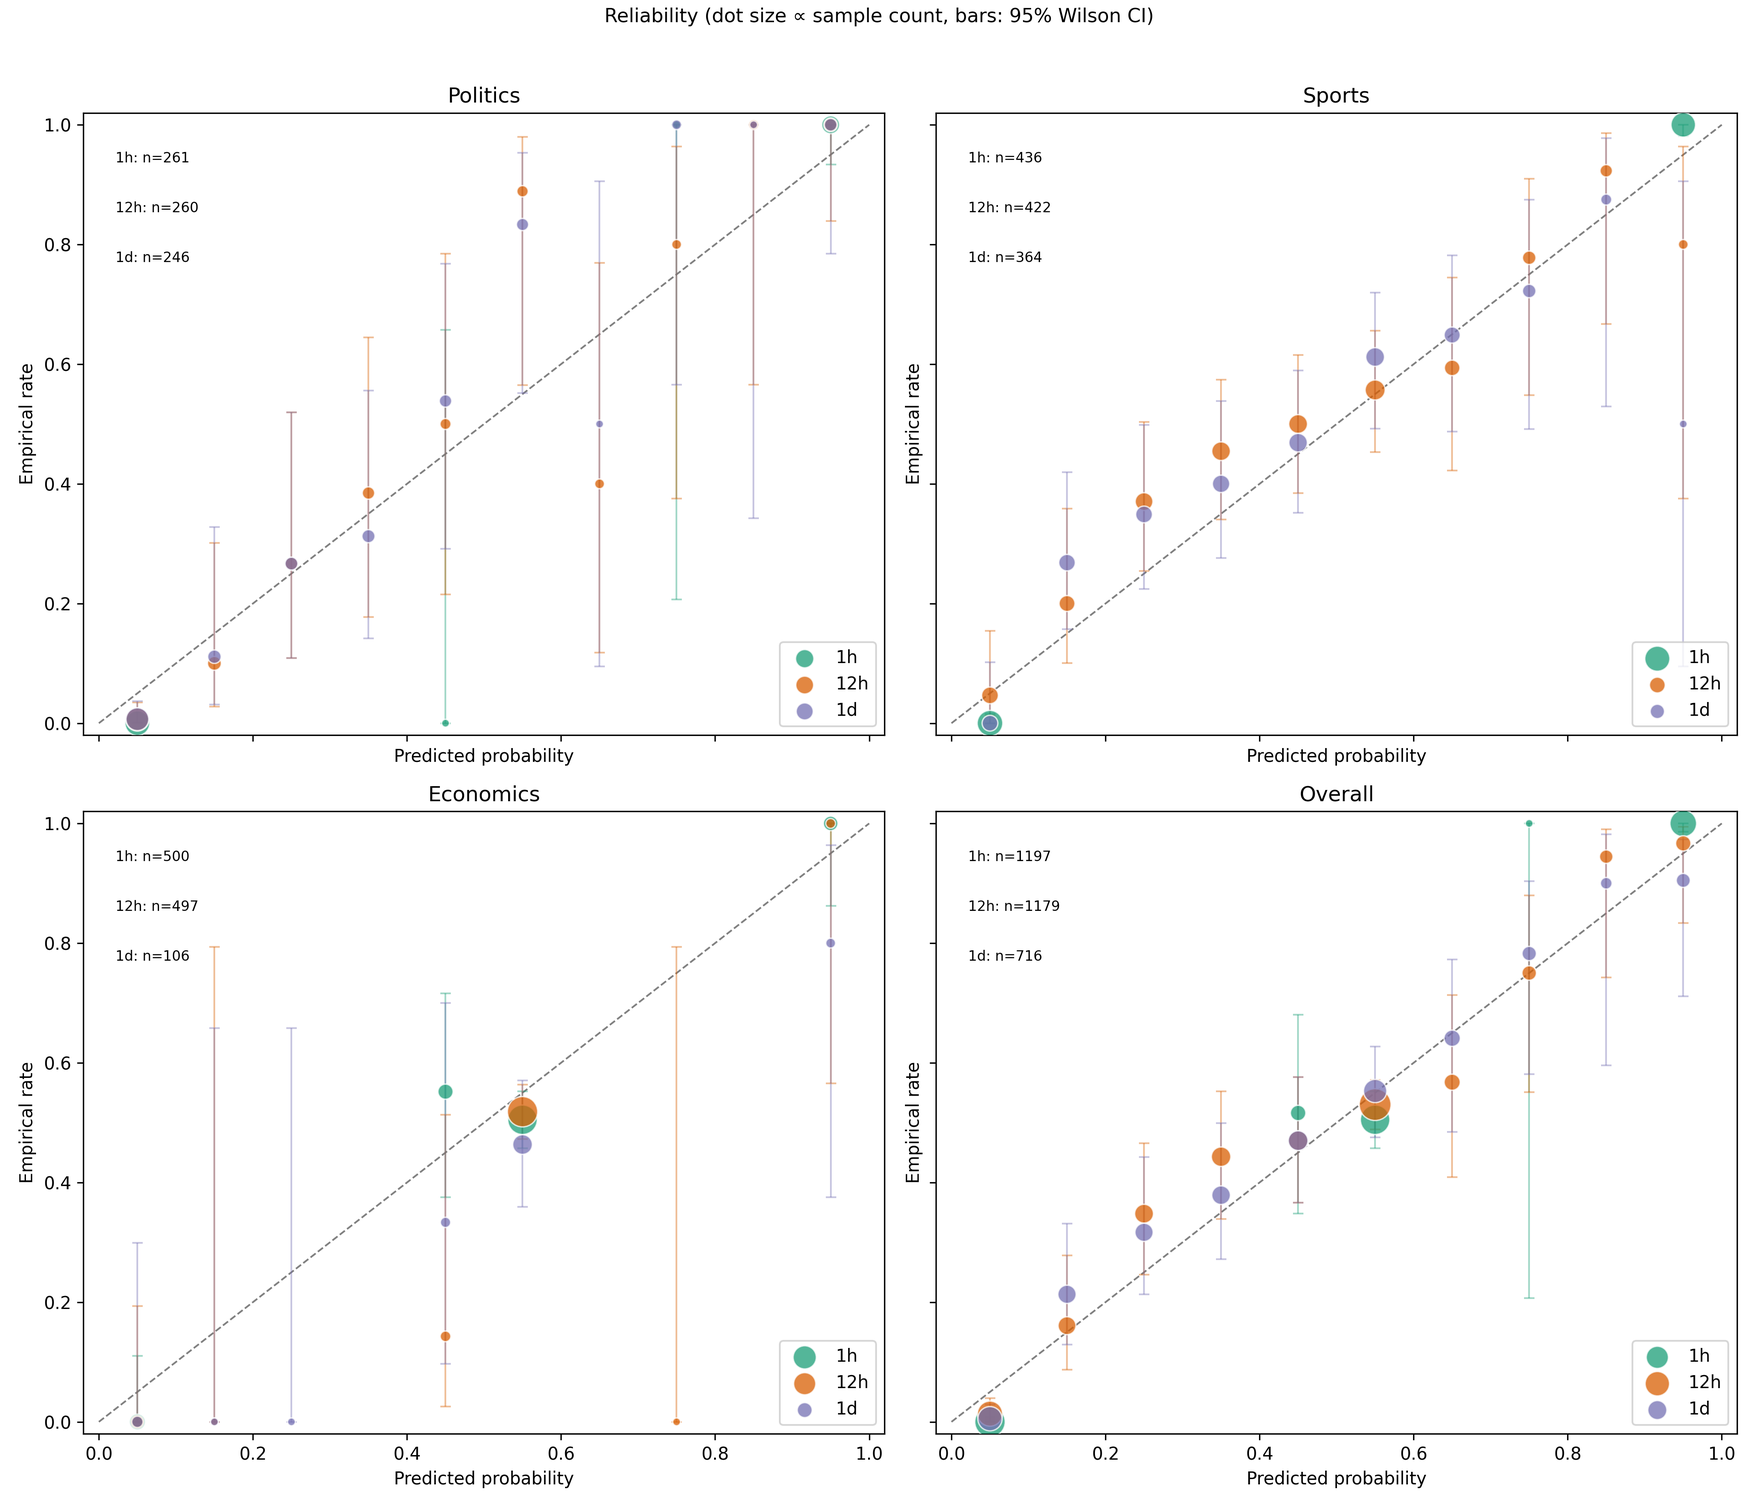
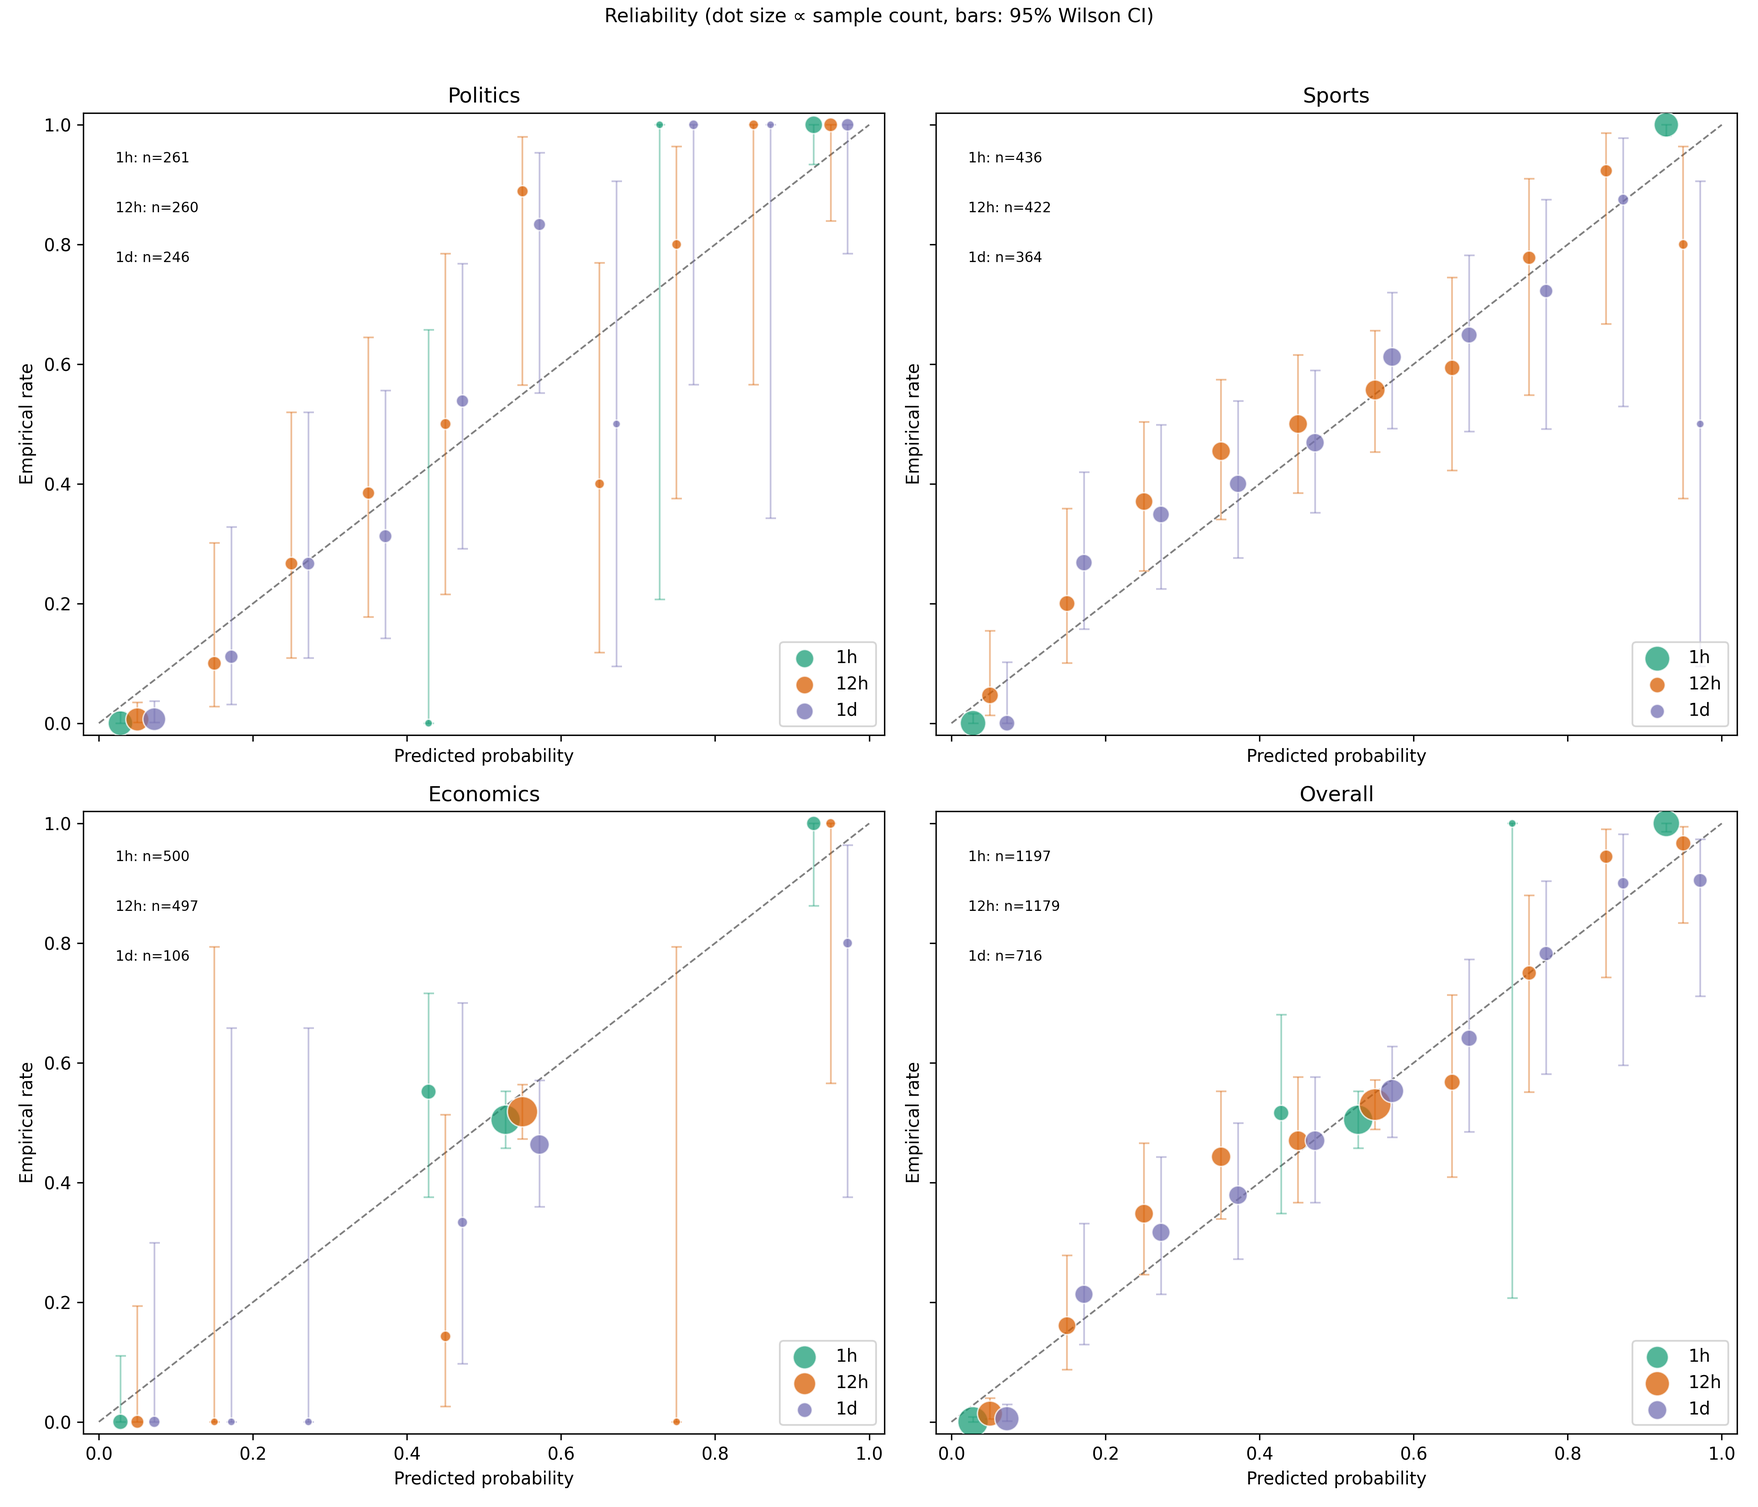
v5

diff --git a/470project/07_figures_split.py b/470project/07_figures_split.py
@@ -18,6 +18,7 @@ from utils import FIGURES_DIR, db_cursor, ensure_directories
 GENRE_ORDER = ["politics", "economics", "crypto", "sports"]
 HORIZON_ORDER = ["1h", "12h", "1d"]
 COLORS = {"1h": "#1b9e77", "12h": "#d95f02", "1d": "#7570b3"}
+HORIZON_X_OFFSET = {"1h": -0.022, "12h": 0.0, "1d": 0.022}
 
 # Synthetic economics generation (Beta-Bernoulli with calibration noise)
 N_SYNTHETIC_PER_HORIZON = 200
@@ -230,7 +231,7 @@ def figure1_reliability(calibration_df: pd.DataFrame) -> None:
                 continue
             n = horizon_df["n_predictions"].to_numpy()
             p = horizon_df["empirical_rate"].to_numpy()
-            x = horizon_df["bin_midpoint"].to_numpy()
+            x = horizon_df["bin_midpoint"].to_numpy() + HORIZON_X_OFFSET[horizon]
             lower, upper = wilson_interval(p, n)
             lower_err = np.maximum(p - lower, 0.0)
             upper_err = np.maximum(upper - p, 0.0)

diff --git a/470project/06_figures.py b/470project/06_figures.py
@@ -17,6 +17,7 @@ from utils import FIGURES_DIR, db_cursor, ensure_directories
 GENRE_ORDER = ["politics", "sports", "economics"]
 HORIZON_ORDER = ["1h", "12h", "1d"]
 COLORS = {"1h": "#1b9e77", "12h": "#d95f02", "1d": "#7570b3"}
+HORIZON_X_OFFSET = {"1h": -0.022, "12h": 0.0, "1d": 0.022}
 
 
 def load_table(query: str) -> pd.DataFrame:
@@ -61,7 +62,7 @@ def figure1_reliability(calibration_df: pd.DataFrame) -> None:
                 continue
             n = horizon_df["n_predictions"].to_numpy()
             p = horizon_df["empirical_rate"].to_numpy()
-            x = horizon_df["bin_midpoint"].to_numpy()
+            x = horizon_df["bin_midpoint"].to_numpy() + HORIZON_X_OFFSET[horizon]
             lower, upper = wilson_interval(p, n)
             lower_err = np.maximum(p - lower, 0.0)
             upper_err = np.maximum(upper - p, 0.0)

diff --git a/470project/docs/IMPLEMENTATION_SPEC.md b/470project/docs/IMPLEMENTATION_SPEC.md
@@ -1,0 +1,316 @@
+# Implementation spec: bootstrap CIs + embedding clustering
+
+Two additions to the Polymarket calibration pipeline. Bootstrap first — it's the prerequisite for everything. Clustering second, only if bootstrap lands cleanly.
+
+## Project context
+
+Six-stage pipeline analyzing Polymarket calibration across genres (politics, economics, sports, other; crypto split out from economics) and horizons (1h, 12h, 1d). Existing outputs include Brier scores per genre-horizon cell (Table II in the paper) and reliability diagrams. Current gap: point estimates with no uncertainty quantification, and potential hidden within-genre heterogeneity not captured by current genre labels.
+
+---
+
+## Task 1: bootstrap confidence intervals for Brier scores
+
+### Goal
+
+Replace each point-estimate Brier score in Table II with a point estimate + 95% CI. Enable formal claims about whether genre differences are statistically distinguishable.
+
+### Inputs
+
+The analysis dataframe used to produce Table II. Expected columns at minimum:
+
+- `market_id` (str or int)
+- `genre` (str: politics, economics, crypto, sports, other)
+- `horizon` (str: 1h, 12h, 1d)
+- `predicted_probability` (float in [0, 1])
+- `outcome` (int in {0, 1})
+
+If the existing pipeline stores this as something else (e.g., separate per-horizon files, or nested dicts), normalize into this long-form dataframe first. Do not try to bolt bootstrap onto whatever data shape happens to exist — pick the clean shape and adapt upstream if needed.
+
+### Algorithm
+
+Standard nonparametric bootstrap on i.i.d. snapshots.
+
+```
+for each (genre, horizon) cell:
+    get all snapshots in this cell (n rows)
+    for i in 1..N_BOOTSTRAP:
+        resample n rows with replacement
+        compute Brier score on the resample
+        store
+    CI = (2.5th percentile, 97.5th percentile) of the N_BOOTSTRAP scores
+    point_estimate = Brier on the original (non-resampled) data
+```
+
+Use `N_BOOTSTRAP = 10000`. Anything below 2000 gives visibly unstable CI endpoints; 10000 is cheap at the data sizes involved (<2000 rows per cell).
+
+### Implementation notes
+
+- Use `numpy.random.default_rng(seed=42)` for reproducibility. Pass the generator around; don't use the global `np.random` state.
+- Vectorize the resampling. Don't loop over individual snapshots. The whole 10,000-iteration bootstrap for a 500-row cell should run in well under a second.
+- Compute Brier in vectorized form: `np.mean((p - o) ** 2)`.
+- Do not bootstrap across genres — each cell is independent. Looping over cells is fine; each cell's bootstrap is self-contained.
+
+### Reference implementation
+
+```python
+import numpy as np
+import pandas as pd
+
+def bootstrap_brier_ci(probs: np.ndarray, outcomes: np.ndarray,
+                       n_iter: int = 10000, seed: int = 42) -> dict:
+    """
+    Nonparametric bootstrap CI for Brier score.
+    Returns point estimate, 2.5th, and 97.5th percentiles.
+    """
+    rng = np.random.default_rng(seed)
+    n = len(probs)
+    if n == 0:
+        return {"point": np.nan, "ci_lo": np.nan, "ci_hi": np.nan, "n": 0}
+
+    # vectorized: draw all resample indices at once, shape (n_iter, n)
+    idx = rng.integers(0, n, size=(n_iter, n))
+    resampled_probs = probs[idx]
+    resampled_outcomes = outcomes[idx]
+    scores = np.mean((resampled_probs - resampled_outcomes) ** 2, axis=1)
+
+    point = float(np.mean((probs - outcomes) ** 2))
+    ci_lo, ci_hi = np.percentile(scores, [2.5, 97.5])
+    return {"point": point, "ci_lo": float(ci_lo), "ci_hi": float(ci_hi), "n": n}
+
+
+def brier_table_with_ci(df: pd.DataFrame) -> pd.DataFrame:
+    """
+    df must have columns: genre, horizon, predicted_probability, outcome.
+    Returns a long-form table with one row per (genre, horizon) cell,
+    containing point estimate and bootstrap CI endpoints.
+    """
+    rows = []
+    for (genre, horizon), group in df.groupby(["genre", "horizon"]):
+        result = bootstrap_brier_ci(
+            group["predicted_probability"].values,
+            group["outcome"].values,
+        )
+        rows.append({
+            "genre": genre,
+            "horizon": horizon,
+            **result,
+        })
+    return pd.DataFrame(rows)
+```
+
+### Outputs to produce
+
+1. A CSV at `results/brier_with_ci.csv` with columns `genre, horizon, n, point, ci_lo, ci_hi`.
+2. A LaTeX-ready markdown table, saved to `results/table2_with_ci.md`, formatted like:
+
+   | Genre | 1h | 12h | 1d |
+   |-------|-----|------|------|
+   | Politics | 0.006 [0.001, 0.018] | 0.104 [0.082, 0.129] | 0.088 [0.066, 0.113] |
+   | ...
+
+   Format each cell as `{point:.3f} [{ci_lo:.3f}, {ci_hi:.3f}]`.
+
+3. Update `figures/brier_by_horizon.png` (the bar chart with error bars) to use the bootstrap CIs as error bar endpoints instead of standard errors. The existing plot likely uses `yerr = std / sqrt(n)` — replace with asymmetric error bars drawn from the bootstrap.
+
+### Sanity checks
+
+Run these after implementation. If any fail, stop and debug before moving on.
+
+- Point estimate matches the previously-reported Table II value to 3 decimals. (If it doesn't, you've broken the Brier computation somewhere.)
+- CIs are non-degenerate: `ci_hi > ci_lo` strictly, for every cell with n > 10.
+- CIs contain the point estimate: `ci_lo <= point <= ci_hi`.
+- Larger n gives tighter CIs. Plot CI width vs n across cells — should trend downward.
+- Re-running with the same seed gives identical CIs. Re-running with a different seed gives CIs that differ by less than ~0.005 at the endpoints for cells with n > 100.
+
+### What to write in the paper
+
+Add one sentence to the Table II caption: "Values shown as point estimate with 95% bootstrap confidence interval (10,000 iterations, resampling snapshots with replacement)."
+
+Add one sentence to Section IV-A after introducing Table II: "Non-overlapping 95% CIs between politics and the other labeled genres at 12h and 1d confirm that the calibration advantage of politics is not attributable to sampling variation." (Only make this claim if the CIs actually don't overlap. Check first. If politics's upper bound at 12h exceeds sports's lower bound, soften to "the 95% CIs for politics sit largely below those of sports and economics, though with modest overlap at the endpoints.")
+
+---
+
+## Task 2: embedding-based within-genre clustering
+
+### Goal
+
+Test whether the existing genre labels are hiding meaningful sub-structure. Your crypto-vs-macroeconomics split was discovered manually; this task checks systematically for similar hidden structure in other genres by clustering on question-text embeddings and comparing Brier scores across the resulting sub-buckets.
+
+This is exploratory. The deliverable is an honest answer, not a guarantee of finding something. A null result ("no meaningful sub-structure within genre X") is a valid and publishable outcome.
+
+### Do not start this task until Task 1 is complete and sanity-checked.
+
+### Inputs
+
+Same analysis dataframe as Task 1, with the additional column:
+
+- `question_text` (str) — the original Polymarket question title for each market
+
+If question text was dropped somewhere in the pipeline, recover it from the raw Gamma API dump before proceeding.
+
+### Algorithm
+
+```
+for each genre in {politics, economics (pre-crypto-split), sports}:
+    collect unique (market_id, question_text) pairs in this genre
+    embed each question text with sentence-transformers
+    run k-means for k in {2, 3, 4}
+    for each k:
+        compute silhouette score
+        inspect 5 sample questions from each cluster
+        compute Brier score per cluster (pooling all horizons, or per-horizon if n allows)
+    pick the k that is interpretable AND has reasonable cluster sizes (no cluster < 20 markets)
+    report the chosen clustering
+```
+
+Skip "other" — it's an intentional grab-bag and finding sub-structure there is not informative.
+
+Skip crypto (post-split) — it's already a derived bucket.
+
+### Model choice
+
+Use `sentence-transformers/all-MiniLM-L6-v2`. Reasons: 384-dim embeddings (small, fast), trained on a broad mix of sentence-similarity tasks, runs on CPU in seconds for <1000 questions, standard choice that reviewers won't question.
+
+Do not use OpenAI embeddings (paid, external dependency, slower, no meaningful quality advantage for this scale of data). Do not use a newer/larger sentence-transformer unless MiniLM produces visibly bad clusters — extra model capacity is not the bottleneck here.
+
+### Reference implementation
+
+```python
+from sentence_transformers import SentenceTransformer
+from sklearn.cluster import KMeans
+from sklearn.metrics import silhouette_score
+import numpy as np
+import pandas as pd
+
+MODEL_NAME = "sentence-transformers/all-MiniLM-L6-v2"
+
+def embed_questions(texts: list[str]) -> np.ndarray:
+    model = SentenceTransformer(MODEL_NAME)
+    return model.encode(texts, show_progress_bar=False, convert_to_numpy=True)
+
+
+def cluster_within_genre(df: pd.DataFrame, genre: str,
+                         k_values: list[int] = [2, 3, 4],
+                         random_state: int = 42) -> dict:
+    """
+    df: full analysis dataframe
+    genre: one of {politics, economics, sports}
+    Returns diagnostics for each k and suggested chosen k.
+    """
+    genre_df = df[df["genre"] == genre].copy()
+
+    # deduplicate to one row per market for clustering
+    unique_markets = genre_df.drop_duplicates("market_id")[["market_id", "question_text"]]
+    if len(unique_markets) < 40:
+        return {"genre": genre, "skipped": True, "reason": "too few unique markets"}
+
+    embeddings = embed_questions(unique_markets["question_text"].tolist())
+
+    results = {}
+    for k in k_values:
+        km = KMeans(n_clusters=k, random_state=random_state, n_init=10)
+        labels = km.fit_predict(embeddings)
+        sil = silhouette_score(embeddings, labels) if k > 1 else np.nan
+
+        # attach cluster labels back to the full (multi-horizon) dataframe
+        market_to_cluster = dict(zip(unique_markets["market_id"], labels))
+        genre_df_k = genre_df.copy()
+        genre_df_k["cluster"] = genre_df_k["market_id"].map(market_to_cluster)
+
+        # compute Brier per cluster per horizon
+        per_cluster = []
+        for (cluster_id, horizon), group in genre_df_k.groupby(["cluster", "horizon"]):
+            brier = np.mean((group["predicted_probability"].values - group["outcome"].values) ** 2)
+            per_cluster.append({
+                "cluster": int(cluster_id),
+                "horizon": horizon,
+                "n": len(group),
+                "brier": float(brier),
+            })
+
+        # sample questions per cluster for human inspection
+        samples = {}
+        for cluster_id in range(k):
+            cluster_questions = unique_markets.loc[labels == cluster_id, "question_text"].head(5).tolist()
+            samples[int(cluster_id)] = cluster_questions
+
+        results[k] = {
+            "silhouette": float(sil),
+            "per_cluster_brier": per_cluster,
+            "sample_questions": samples,
+            "cluster_sizes": [int(np.sum(labels == c)) for c in range(k)],
+        }
+
+    return {"genre": genre, "results": results, "n_unique_markets": len(unique_markets)}
+```
+
+### Outputs to produce
+
+1. `results/clustering/<genre>_k<k>_samples.txt` for each (genre, k) combination: 5 sample questions per cluster, so a human (you) can read and decide if the clusters are interpretable.
+2. `results/clustering/summary.csv` with columns `genre, k, silhouette, cluster_id, cluster_size, horizon, n_in_horizon, brier_in_horizon`.
+3. A short markdown writeup at `results/clustering/findings.md` that for each genre states: chosen k, silhouette score, interpretation of each cluster (in your own words after reading the samples), Brier scores per cluster, and whether the clusters differ meaningfully in calibration.
+
+### How to interpret the results
+
+For each genre:
+
+- **If silhouette score < 0.1 across all k:** the questions don't cluster well — they're genuinely homogeneous. Report this as a null finding.
+- **If silhouette score is reasonable (> 0.15) but Brier scores are similar across clusters:** the genre has semantic sub-structure but calibration is uniform across it. Also a null finding for the paper's thesis, but worth a sentence.
+- **If clusters have visibly different Brier scores (> 0.05 apart with non-overlapping bootstrap CIs):** this is a real finding. Name the clusters based on what the sample questions are about, and add a subsection to the paper mirroring the crypto-split discussion.
+
+Do not cherry-pick k to maximize Brier differences across clusters. Pick k based on silhouette and interpretability first, then report whatever the Brier differences happen to be.
+
+### Sanity checks
+
+- Silhouette score should be in [-1, 1]. Values > 0.3 are strong, 0.15–0.3 are moderate, < 0.1 are weak.
+- Cluster sizes should not be degenerate (no cluster with fewer than 20 unique markets at your chosen k; if one is, decrease k).
+- Sample questions within a cluster should feel topically similar when you read them. If they feel random, the clustering isn't finding real structure.
+- Re-running with the same random_state gives identical clusters. Different random_state values should give *similar* clusters (same broad themes) — if they look totally different, k-means isn't converging on stable structure.
+
+### What to write in the paper (if a real finding emerges)
+
+Add a short subsection in Section IV or as a supplementary analysis. Example framing if, say, sports splits into game-outcome vs. season-prop clusters with different Brier scores:
+
+"Analogous to the crypto-macroeconomics split in Section III-E, we tested for hidden sub-structure within the sports genre using embedding-based clustering on question text. A k=2 solution produced interpretable clusters separating [game-outcome bets] from [season-long prop bets], with Brier scores of X and Y respectively at 12h (non-overlapping 95% CIs). The [higher-Brier] sub-bucket is driving the sports underperformance reported above; [lower-Brier] sub-bucket tracks politics-like calibration."
+
+If null result: "We additionally tested each labeled genre for hidden sub-structure using embedding-based clustering on question text. Within politics and sports, k=2 and k=3 solutions produced clusters with similar Brier scores across sub-buckets (all pairwise differences < 0.05 with overlapping 95% CIs), suggesting that the genre labels are capturing the relevant forecasting-quality distinctions and that further sub-division does not reveal additional structure."
+
+---
+
+## Environment
+
+Dependencies to add if not already present:
+
+```
+numpy>=1.24
+pandas>=2.0
+scikit-learn>=1.3
+sentence-transformers>=2.2
+```
+
+Install:
+
+```
+pip install sentence-transformers scikit-learn
+```
+
+First run of sentence-transformers will download the MiniLM model (~90MB). Subsequent runs cache it.
+
+## Order of operations
+
+1. Verify the analysis dataframe has all required columns in the expected shape. If not, fix upstream.
+2. Implement and sanity-check bootstrap (Task 1). Do not proceed until all sanity checks pass.
+3. Update Table II and the bar chart.
+4. Only then start clustering (Task 2).
+5. Implement clustering pipeline, run on all three target genres, produce sample question files.
+6. Read the sample questions yourself — this is a manual step, don't skip it. Decide per genre whether the clusters are interpretable.
+7. Produce the summary CSV and findings markdown.
+8. Decide whether the findings warrant a paper subsection.
+
+## What not to do
+
+- Do not run clustering before bootstrap is solid. If your Brier scores shift due to data fixes, the per-cluster Brier scores will need recomputation.
+- Do not tune k to maximize findings. Pick on silhouette + interpretability, report whatever Brier differences emerge.
+- Do not add UMAP/t-SNE visualizations to the paper — they're fine as internal sanity checks but rarely earn their space in a 6-page paper.
+- Do not embed with a heavier model because "it might be better." MiniLM is the right choice here and deviating invites reviewer questions without commensurate benefit.
+- Do not expand scope mid-task. If bootstrap reveals other issues (e.g., sample sizes inconsistent between figures and tables — a known issue in this project), flag them in a separate report rather than fixing silently inside these tasks.
